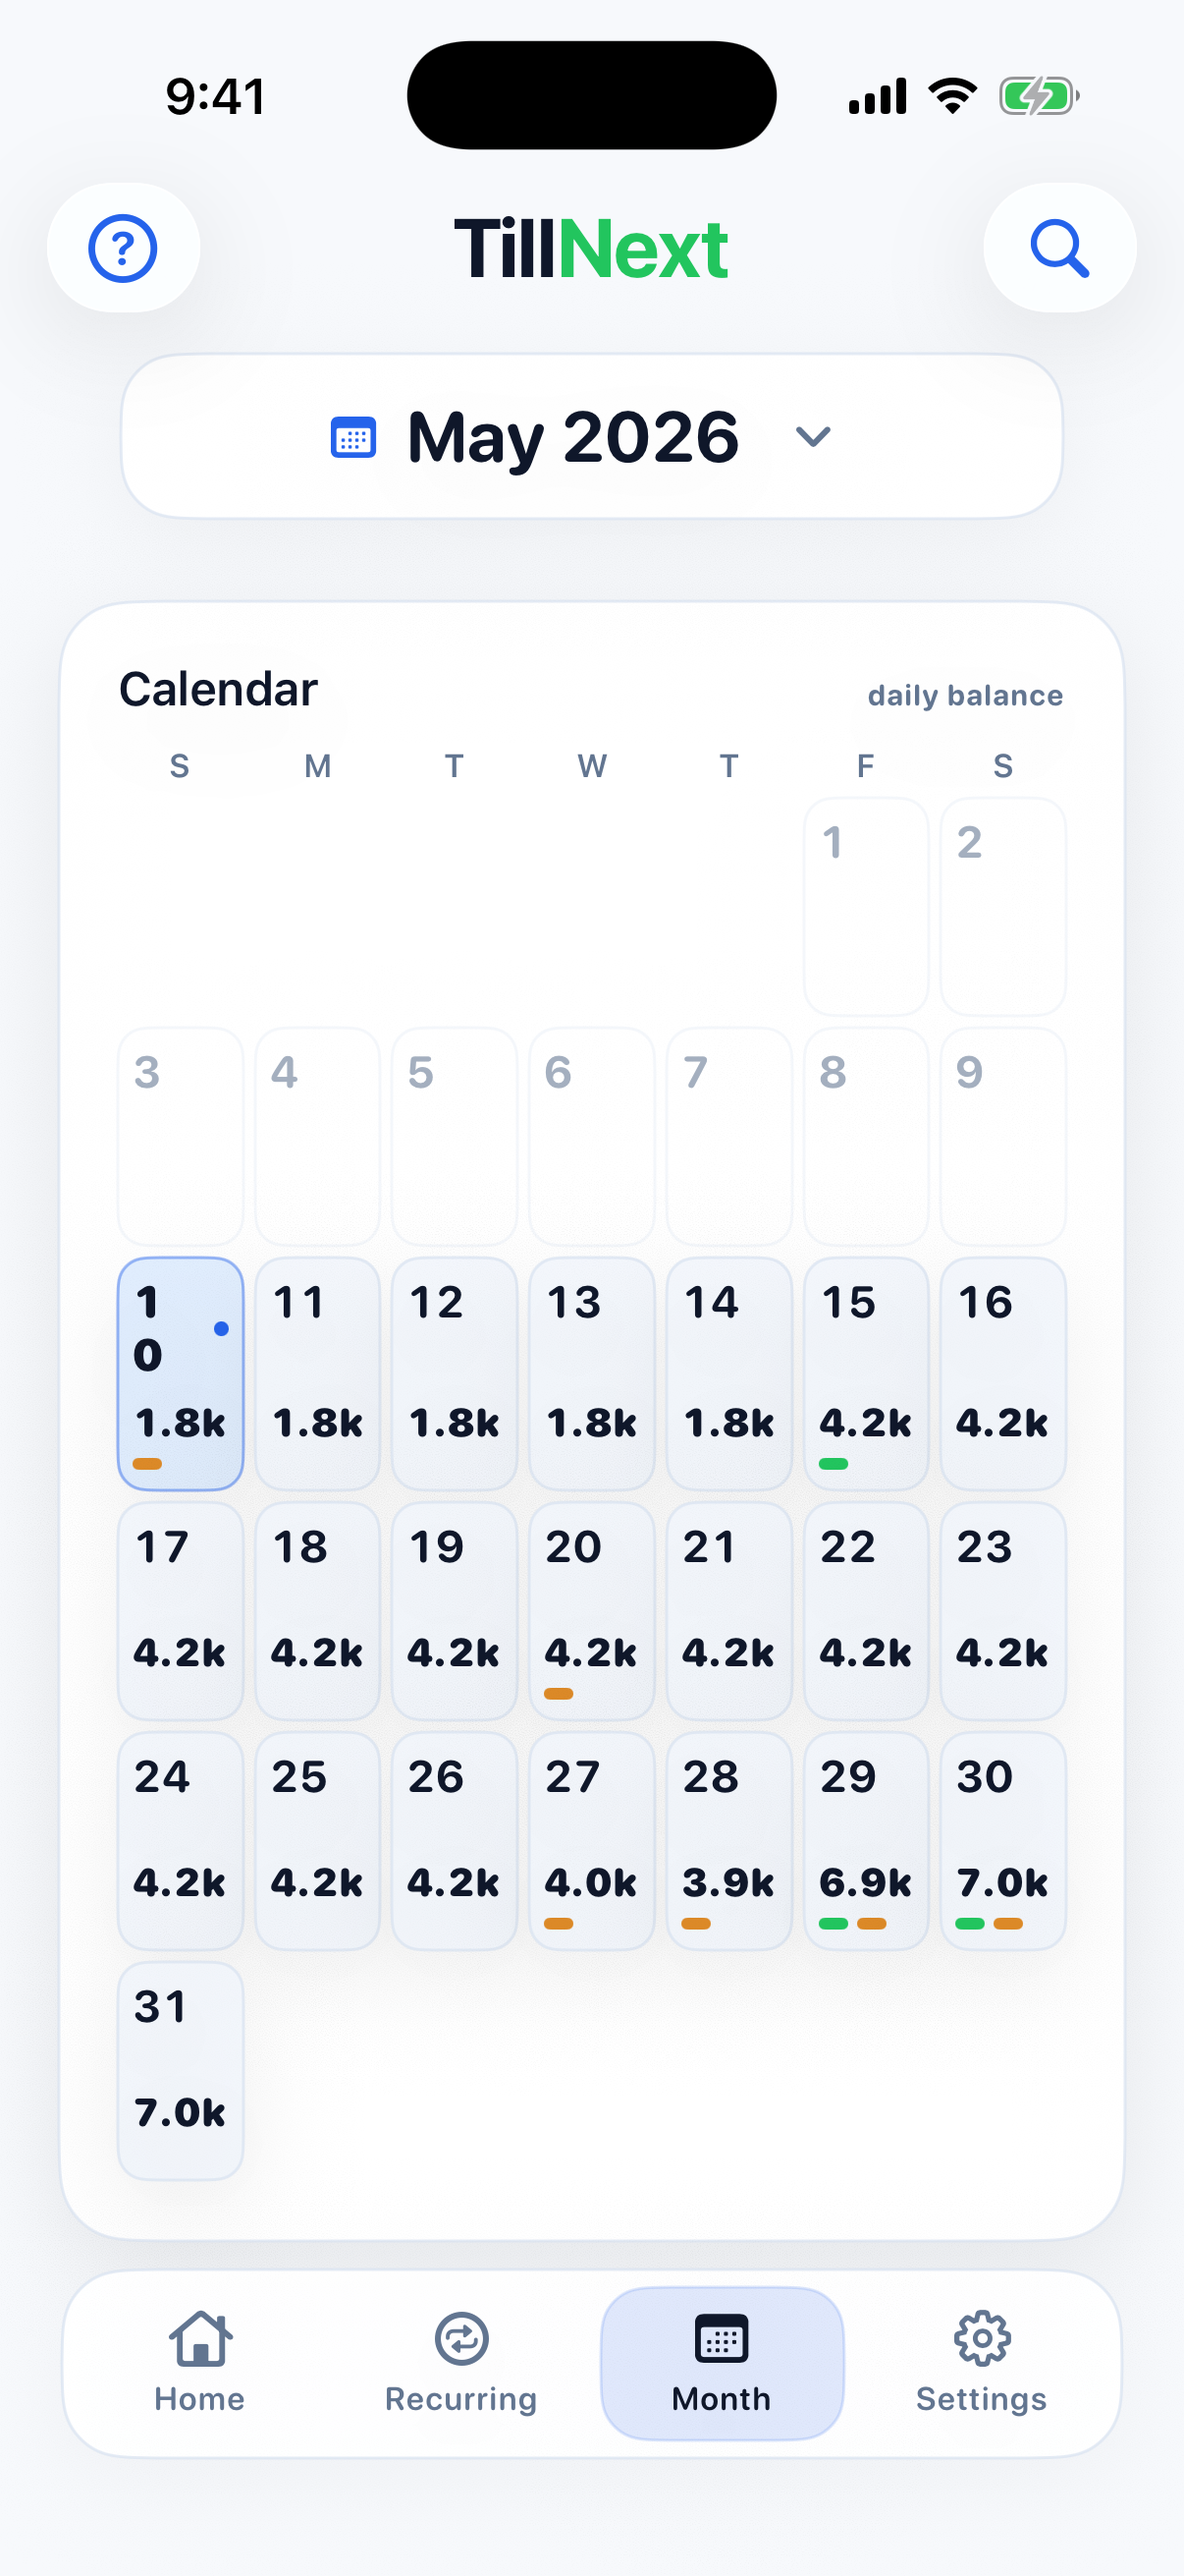
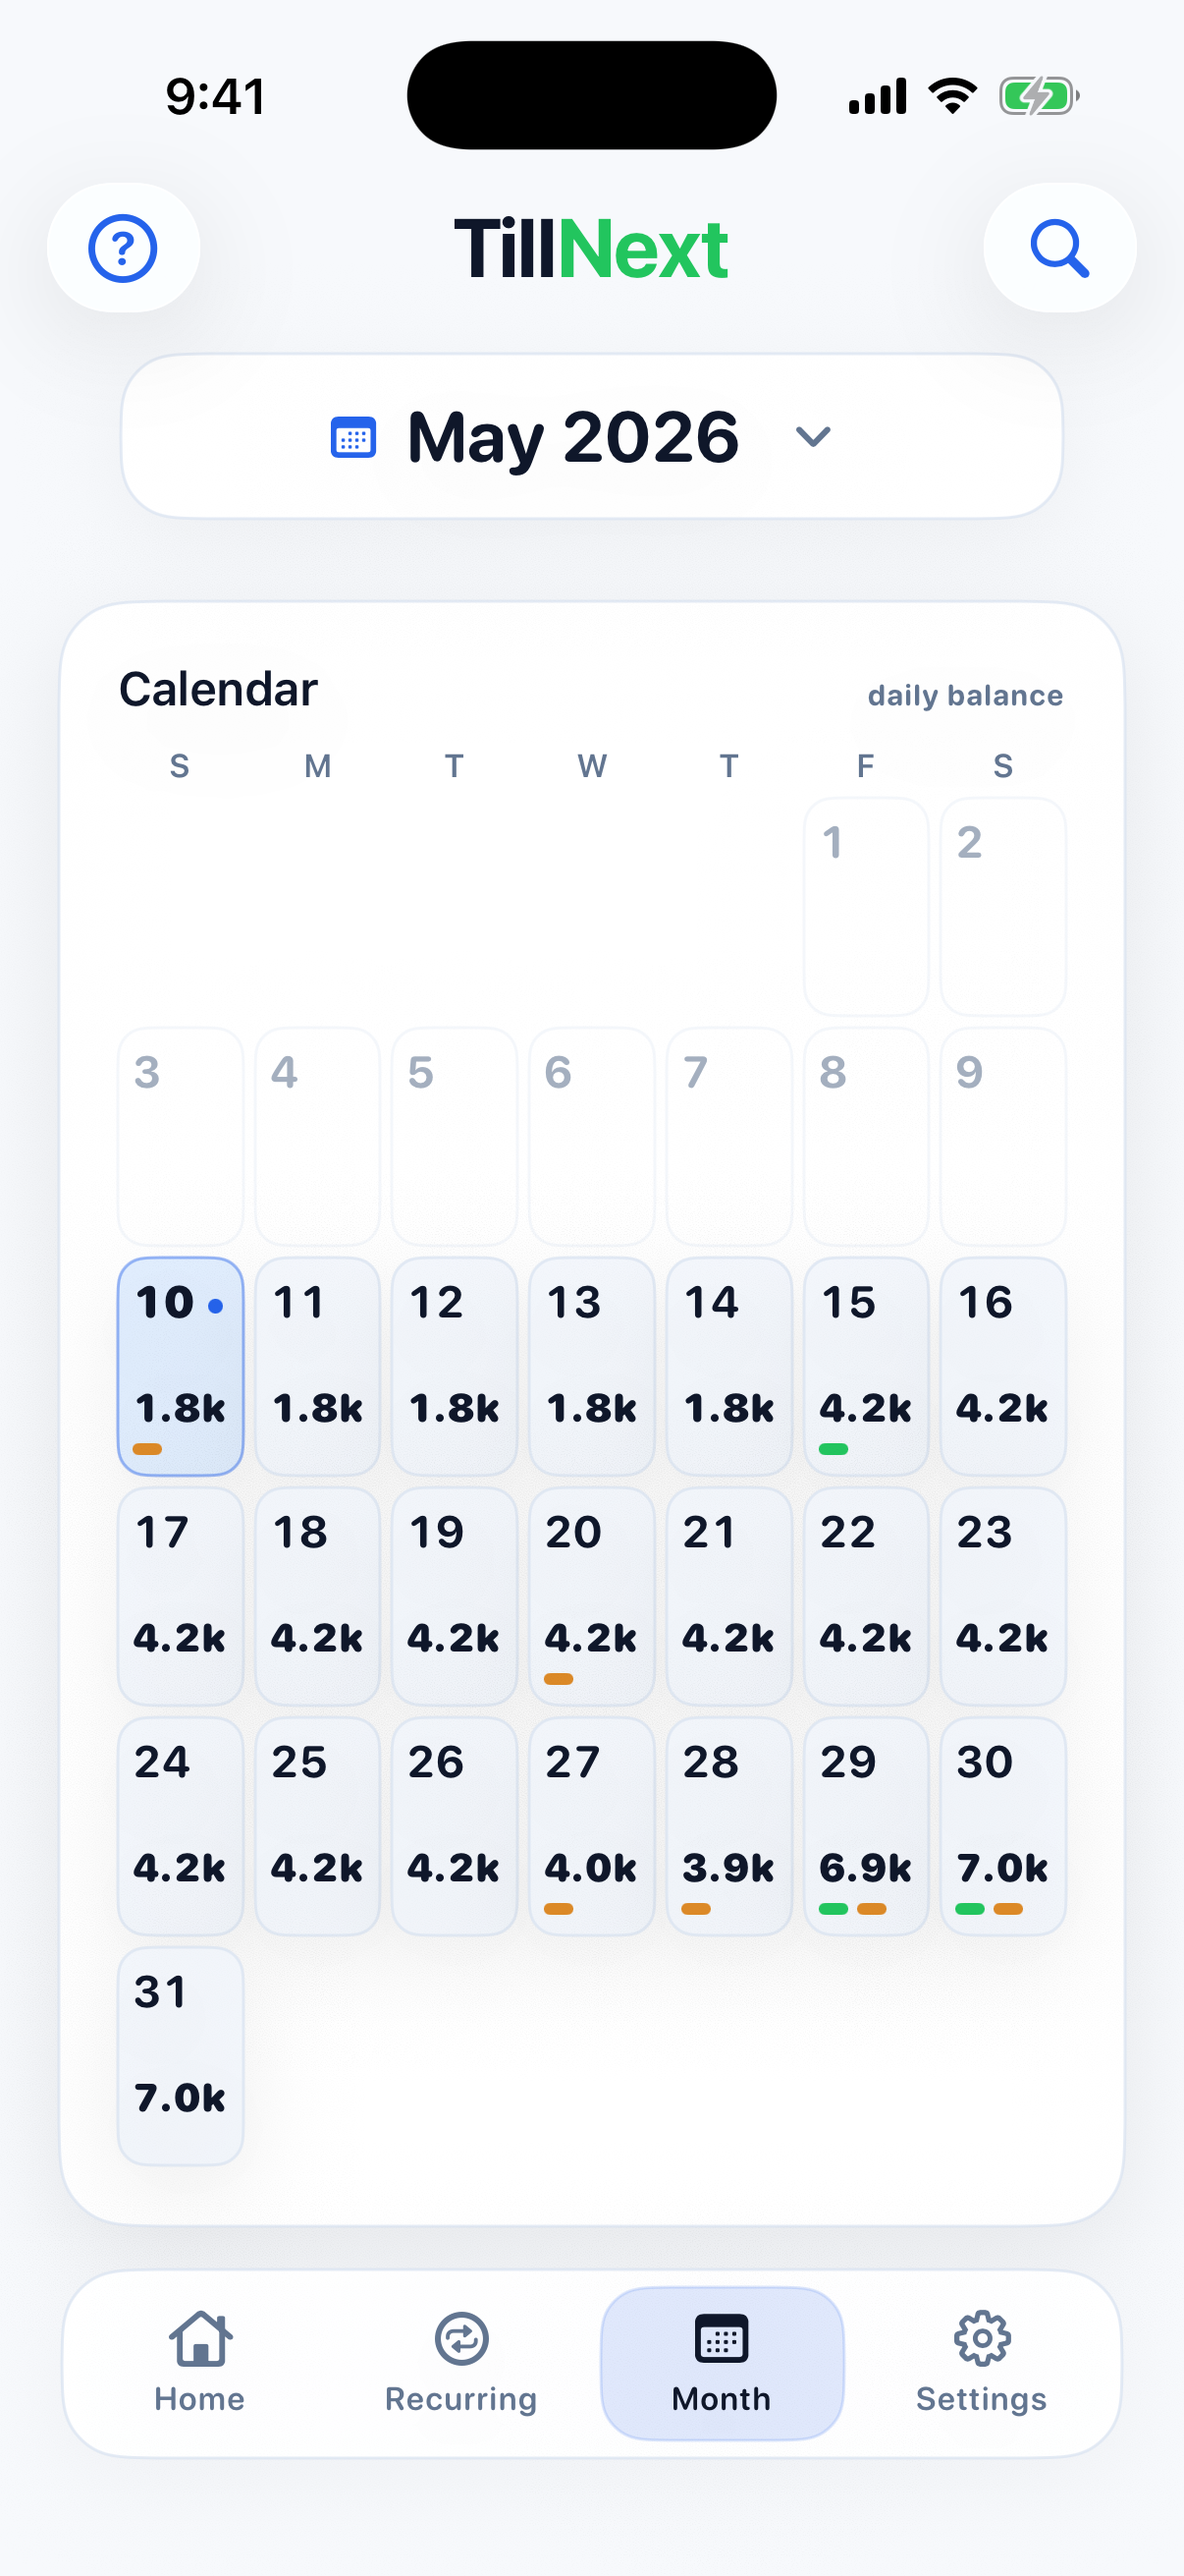
Update build 302 month screenshots

diff --git a/changelog/index.html b/changelog/index.html
@@ -5,7 +5,7 @@
     <meta name="viewport" content="width=device-width, initial-scale=1">
     <title>TillNext: Paycheck Planner Changelog</title>
     <meta name="description" content="Public changelog for TillNext: Paycheck Planner.">
-    <link rel="stylesheet" href="../styles.css?v=20260510-build301">
+    <link rel="stylesheet" href="../styles.css?v=20260510-build302">
   </head>
   <body>
     <main>
@@ -23,6 +23,8 @@
       <p><strong>Updated:</strong> May 10, 2026</p>
       <h3>May 10, 2026</h3>
       <ul>
+        <li>Prepared build 302 for pre-launch testing.</li>
+        <li>Fixed the Month calendar today marker so two-digit dates stay on one line in the compact phone layout.</li>
         <li>Prepared build 301 for pre-launch testing.</li>
         <li>Improved purchase restore feedback so Restore Purchases now confirms a restored unlock, explains when no lifetime unlock is found, and clearly identifies forced expired preview builds.</li>
         <li>Kept expired-trial Settings focused on manual CSV backup, iCloud backup, and reset, while restore/import and automatic daily backup controls stay available only during trial or after unlock.</li>
